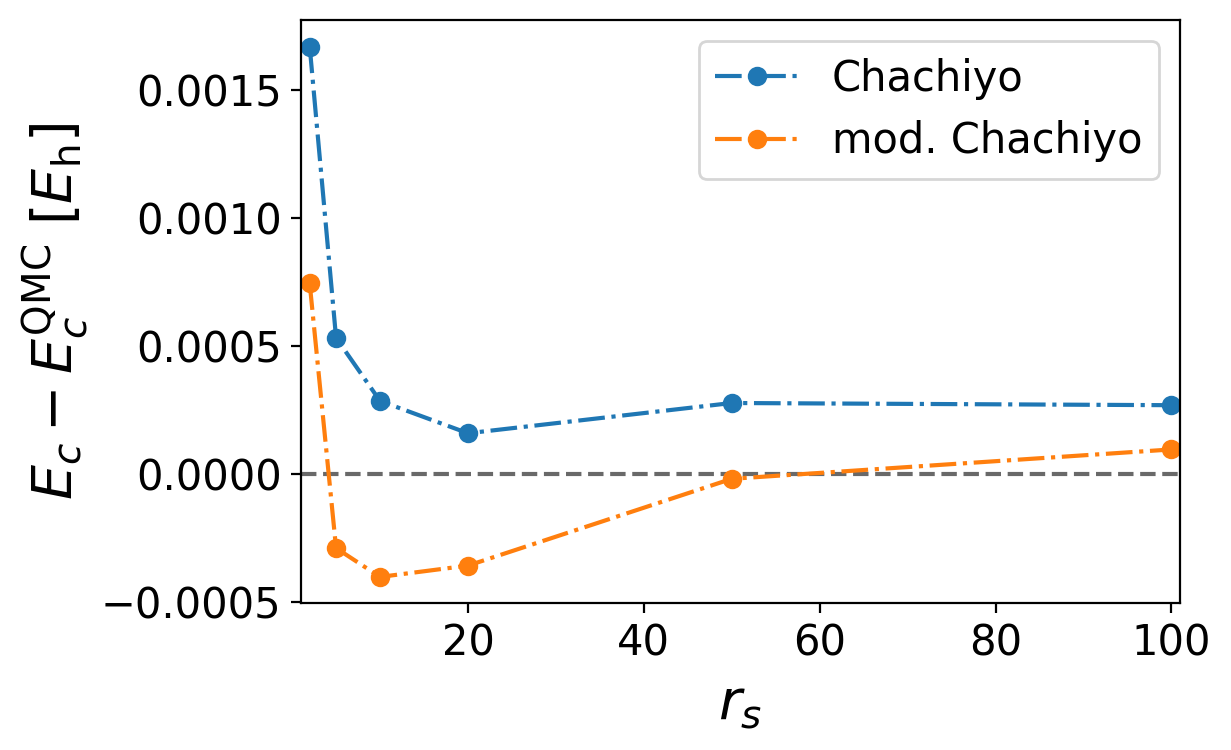
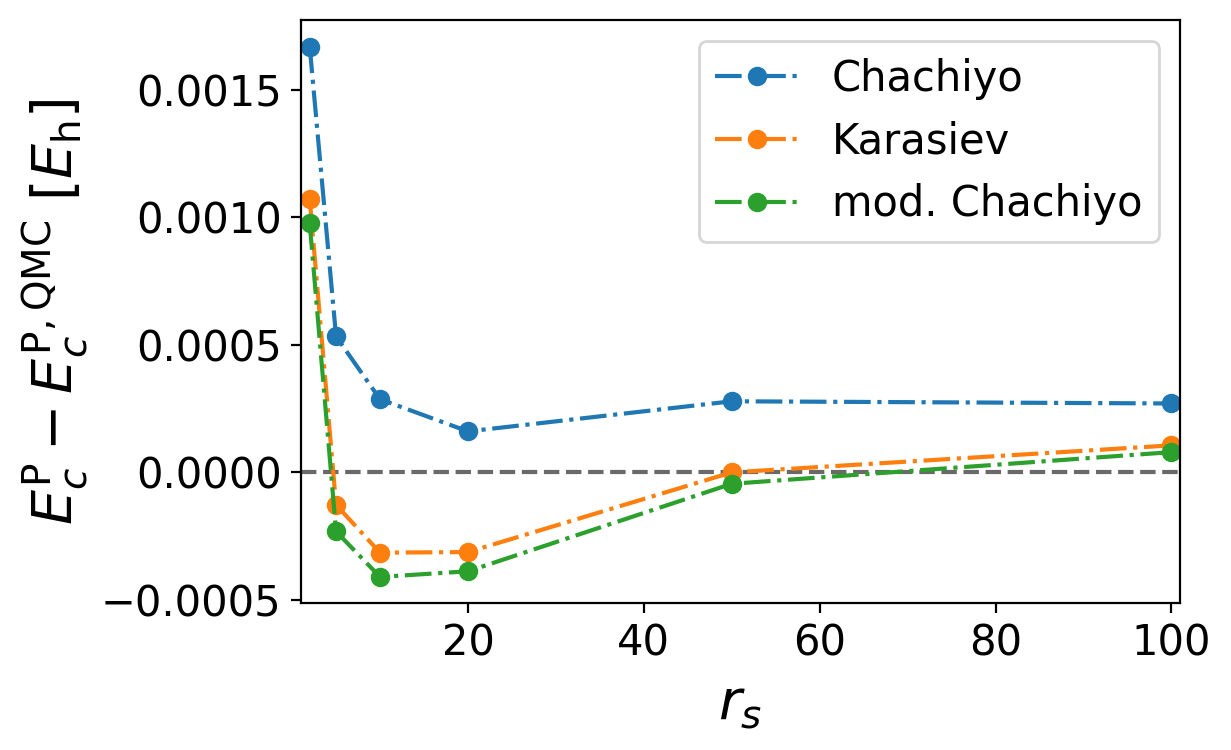
examples: Extend example 15 for the spin-polarized case

diff --git a/examples/15_custom_functionals/15_custom_functionals.py b/examples/15_custom_functionals/15_custom_functionals.py
@@ -6,53 +6,61 @@ from eminus import Atoms, SCF
 from eminus.units import ry2ha
 import eminus.xc
 
-# # Start with a normal SCF calculation for helium with the LDA Chachiyo functional
+# # Start with a normal SCF calculation for helium with the original LDA Chachiyo functional
 atoms = Atoms('He', (0, 0, 0), ecut=10, verbose=0)
 scf = SCF(atoms, xc='lda,chachiyo')
 scf.run()
 print(f'Energies with the Chachiyo functional:\n{scf.energies}')
 
-# # Build a new custom functional by fitting the Chachiyo functional over the Quantum Monte Carlo (QMC) results from Ceperley and Alder
+# # Define arrays for the Quantum Monte Carlo (QMC) results from Ceperley and Alder for the homogeneous electron gas
 # # The values are the paramagnetic correlation energies from Tab. 5 in Can. J. Phys. 58, 1200
 rs = np.array([2, 5, 10, 20, 50, 100])
 # Convert from -mRy to Hartree
-ec = -ry2ha(np.array([90.2, 56.3, 37.22, 23.00, 11.40, 6.379])) / 1000
+ecp = -ry2ha(np.array([90.2, 56.3, 37.22, 23.00, 11.40, 6.379])) / 1000
 
 # # Define the original Chachiyo functional parameters
 # # The parameters are derived such that the functional recovers the values in Phys. Rev. B 84, 033103 for the high-density limit
+# # Karasiev re-parameterized the functional in J. Chem. Phys. 145, 157101 without the restriction of `b=c`
+# # Here, `c` uses the same value as in Chachiyo to preserve the correct high-density limit but `b` is chosen such that it recovers the exact value for `rs=50`
+# # We will now build a new custom functional by fitting `b` over the QMC data set
 a = (np.log(2) - 1) / (2 * np.pi**2)
-b = 20.4562557
+c = 20.4562557
+b = c
 print(f'\nOriginal parameter:\nb = {b:.7f}')
 
 # # All functionals in eminus share the same signature and return types
 # # Define a custom spin-paired functional using said signature based on the Chachiyo functional but with the customizable parameter parameter `b` so we can fit over it
 def custom_functional(n, b, **kwargs):
     rs = (3 / (4 * np.pi * n))**(1 / 3)  # Wigner-Seitz radius
-    ec = a * np.log(1 + b / rs + b / rs**2)  # Exchange energy
-    vc = ec + a * b * (2 + rs) / (3 * (b + b * rs + rs**2))  # Exchange potential
+    ec = a * np.log(1 + b / rs + c / rs**2)  # Exchange energy
+    vc = ec + a * (2 * c + b * rs) / (3 * (c + b * rs + b * rs**2))  # Exchange potential
     return ec, np.array([vc]), None
 
 # # Fit the functional using a wrapper function
 # # We only fit over the energies so the wrapper function only returns the first argument of the functional
-# # The third return value of the functional (here `None`) is only used in GGA functionals
+# # The third return value of the function (here `None`) is only used in GGA functionals
 # # Functionals usually take densities as the input, so convert the Wigner-Seitz radius to a density in the wrapper function
 def functional_wrapper(rs, b):
     n = 3 / (4 * np.pi * rs**3)  # Density from Wigner-Seitz radius
     return custom_functional(n, b)[0]
 
 # # Do the fit over the QMC data
-# # The resulting parameters won't recover the high-density limit but can be more accurate in different density regimes
-fitted_b, _ = curve_fit(functional_wrapper, rs, ec, p0=b)
+# # The resulting parameter still recovers the limits of the original functional but can be more accurate in the mid-density regimes
+# # One can see that our fitted value is similar to the one derived by Karasiev with `b=21.7392245`
+fitted_b, _ = curve_fit(functional_wrapper, rs, ecp)
 print(f'\nFitted parameter:\nb = {fitted_b[0]:.7f}')
+# Fitted parameter:
+# b = 21.9469106
 
-# # Plot the error of the correlation energies compared to the QMC data
+# # Plot the error of the correlation energies compared to the QMC data for Chachiyo, Karasiev, and our functional
 # # Find the plot named `correlation_energy_error.png`
 plt.style.use('../eminus.mplstyle')
 plt.axhline(c='dimgrey', ls='--', marker='')
-plt.plot(rs, functional_wrapper(rs, b) - ec, label='Chachiyo')
-plt.plot(rs, functional_wrapper(rs, *fitted_b) - ec, label='mod. Chachiyo')
+plt.plot(rs, functional_wrapper(rs, b) - ecp, label='Chachiyo')
+plt.plot(rs, functional_wrapper(rs, 21.7392245) - ecp, label='Karasiev')
+plt.plot(rs, functional_wrapper(rs, *fitted_b) - ecp, label='mod. Chachiyo')
 plt.xlabel(r'$r_s$')
-plt.ylabel(r'$E_c - E_c^\mathrm{QMC}$ [$E_\mathrm{h}$]')
+plt.ylabel(r'$E_c^\mathrm{P} - E_c^{\mathrm{P,QMC}}$ [$E_\mathrm{h}$]')
 plt.legend()
 plt.savefig('correlation_energy_error.png')
 
@@ -68,5 +76,4 @@ scf = SCF(atoms, xc='lda,custom')
 scf.run()
 print(f'\nEnergies with the fitted Chachiyo functional:\n{scf.energies}')
 
-# # Something similar has been done by Karasiev in J. Chem. Phys. 145, 157101 but for a functional of the form `a * np.log(1 + b / rs + c / rs**2)` without the restriction of `b=c`
-# # Nonetheless, our fitted value of `b=21.7914970` is very similar to the one derived by Karasiev with `b=21.7392245`
+# # An extension of this example for the spin polarized case can be found in the next example

diff --git a/examples/16_custom_functionals_spin/16_custom_functionals_spin.py b/examples/16_custom_functionals_spin/16_custom_functionals_spin.py
@@ -1,0 +1,86 @@
+import matplotlib.pyplot as plt
+import numpy as np
+from scipy.optimize import curve_fit
+
+from eminus.units import ry2ha
+from eminus.xc.lda_c_chachiyo import chachiyo_scaling
+
+# # Wigner-Seitz radii and the respective densities
+rs = np.array([2, 5, 10, 20, 50, 100])
+n = 3 / (4 * np.pi * rs**3)
+# # Paramagnetic and ferromagnetic QMC values for the homogeneous electron gas
+ecp = -ry2ha(np.array([90.2, 56.3, 37.22, 23.00, 11.40, 6.379])) / 1000
+ecf = -ry2ha(np.array([48.0, 31.2, 21.0, 13.55, 7.09, 4.146])) / 1000
+
+# # Original Chachiyo parameters and our fitted value from the paramagnetic case
+b0 = 20.4562557
+b1 = 27.4203609
+fitted_b0 = 21.9469106
+print(f'Original parameter:\nb1 = {b1:.7f}')
+
+# # Spin-polarized Chachiyo functional with additional fit parameters
+# # We won't do an extra DFT calculation with this functional, so the function only returns the correlation energies and no potentials
+def lda_c_chachiyo_spin(n, zeta, b0, b1):
+    a0 = (np.log(2) - 1) / (2 * np.pi**2)
+    a1 = (np.log(2) - 1) / (4 * np.pi**2)
+    c0 = 20.4562557
+    c1 = 27.4203609
+
+    rs = (3 / (4 * np.pi * n))**(1 / 3)
+    ec0 = a0 * np.log(1 + b0 / rs + c0 / rs**2)
+    ec1 = a1 * np.log(1 + b1 / rs + c1 / rs**2)
+    return ec0 + (ec1 - ec0) * chachiyo_scaling(zeta)[0]
+
+# # Again, define a wrapper function for the optimization
+# # In the ferromagnetic case we have a relative spin density of 1 (with 0 we would recover the paramagnetic case)
+def functional_wrapper(rs, b1):
+    n = 3 / (4 * np.pi * rs**3)
+    return lda_c_chachiyo_spin(n, 1, fitted_b0, b1)
+
+# # Do the fit over the QMC data
+# # One can see that our fitted value is vastly different from the one derived by Karasiev with `b1=28.3559732`
+fitted_b1, _ = curve_fit(functional_wrapper, rs, ecf)
+print(f'\nFitted parameter:\nb1 = {fitted_b1[0]:.7f}')
+# Fitted parameter:
+# b1 = 26.9515208
+
+# # Plot the error of the correlation energies compared to the QMC data for Chachiyo, Karasiev, and our functional
+# # Find the plot named `correlation_energy_error_spin.png`
+plt.style.use('../eminus.mplstyle')
+plt.axhline(c='dimgrey', ls='--', marker='')
+plt.plot(rs, lda_c_chachiyo_spin(n, 1, b0, b1) - ecf, label='Chachiyo')
+plt.plot(rs, lda_c_chachiyo_spin(n, 1, 21.7392245, 28.3559732) - ecf, label='Karasiev')
+plt.plot(rs, lda_c_chachiyo_spin(n, 1, fitted_b0, *fitted_b1) - ecf, label='mod. Chachiyo')
+plt.xlabel(r'$r_s$')
+plt.ylabel(r'$E_c^\mathrm{F} - E_c^{\mathrm{F,QMC}}$ [$E_\mathrm{h}$]')
+plt.legend()
+plt.savefig('correlation_energy_error_spin.png')
+
+# # Lastly, let us compare the mean absolute errors (MAE) of these functional variants
+# # One could also compare the root mean square error but the result would be obvious since our fit minimizes this error
+def mae(data, ref):
+    return 1000 * np.sum(np.abs(data - ref)) / len(ref)
+
+# # Begin with the spin-paired case...
+print('\nMAE (spin-paired) [mEh]:')
+print(f'Chachiyo: {mae(lda_c_chachiyo_spin(n, 0, b0, b1), ecp):.3f}')
+print(f'Karasiev: {mae(lda_c_chachiyo_spin(n, 0, 21.7392245, 28.3559732), ecp):.3f}')
+print(f'Modified: {mae(lda_c_chachiyo_spin(n, 0, fitted_b0, *fitted_b1), ecp):.3f}')
+# MAE (spin-paired) [mEh]:
+# Chachiyo: 0.533
+# Karasiev: 0.322
+# Modified: 0.355
+
+# # ...and end with the spin-polarized case
+print('\nMAE (spin-polarized) [mEh]:')
+print(f'Chachiyo: {mae(lda_c_chachiyo_spin(n, 1, b0, b1), ecf):.3f}')
+print(f'Karasiev: {mae(lda_c_chachiyo_spin(n, 1, 21.7392245, 28.3559732), ecf):.3f}')
+print(f'Modified: {mae(lda_c_chachiyo_spin(n, 1, fitted_b0, *fitted_b1), ecf):.3f}')
+# MAE (spin-polarized) [mEh]:
+# Chachiyo: 0.167
+# Karasiev: 0.213
+# Modified: 0.150
+
+# # One can see that our functional outperforms the original Chachiyo functional in both cases (obviously since we compare to the data we fitted to)
+# # Surprisingly, the parameterization from Karasiev performs a bit better in the paramagnetic case but is worse in the ferromagnetic case
+# # Our functional seems to perform well in both cases

diff --git a/examples/README.md b/examples/README.md
@@ -19,6 +19,7 @@ Examples that act as a tutorial for the most important functionalities of the co
 | 13_wannier_localization     | Wannier orbital localization |
 | 14_geometry_optimization    | Optimization of the H2 bond distance |
 | 15_custom_functionals       | Usage of customized functionals |
+| 16_custom_functionals_spin  | Extension of example 15 for the spin-polarized case |
 
 This folder will automatically be parsed to generate the documentation.
 The following structure has to be kept

diff --git a/examples/15_custom_functionals/README.rst b/examples/15_custom_functionals/README.rst
@@ -1,4 +1,5 @@
-Custom functionals
-==================
+Custom functionals (part 1)
+===========================
 
 This example gives an example of how eminus can be extended at runtime, e.g., by using custom functionals.
+Also, this example outlines how one can parameterize their own LDA functional.

diff --git a/examples/16_custom_functionals_spin/README.rst b/examples/16_custom_functionals_spin/README.rst
@@ -1,0 +1,4 @@
+Custom functionals (part 2)
+===========================
+
+This example extends the previous example by re-parameterizing the Chachiyo functional for the spin-polarized case.
